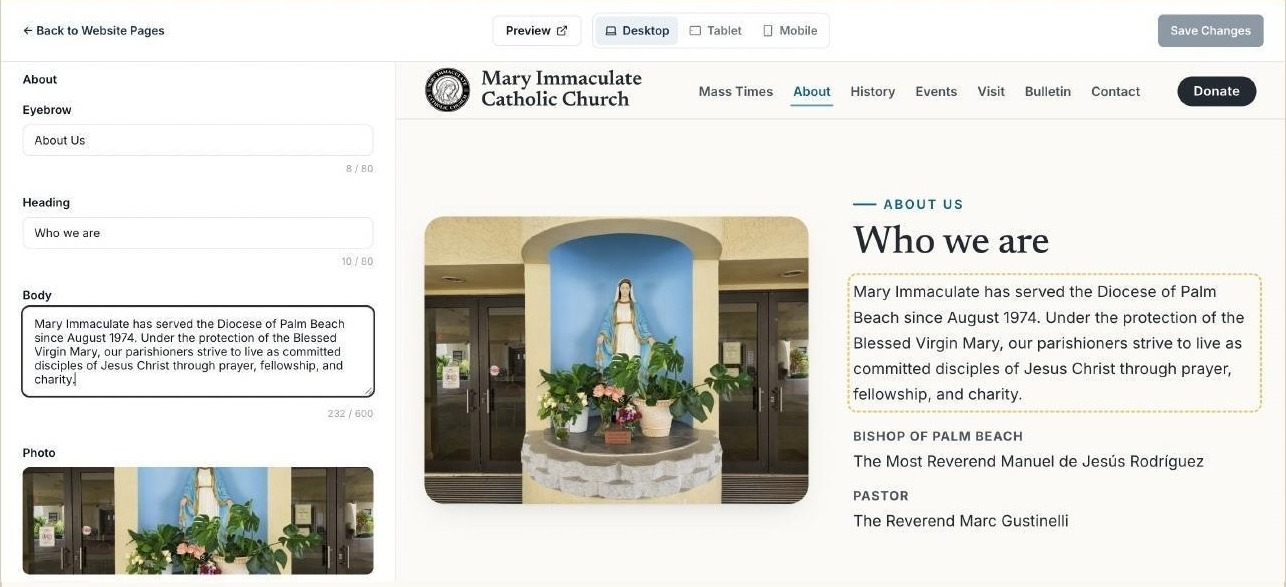
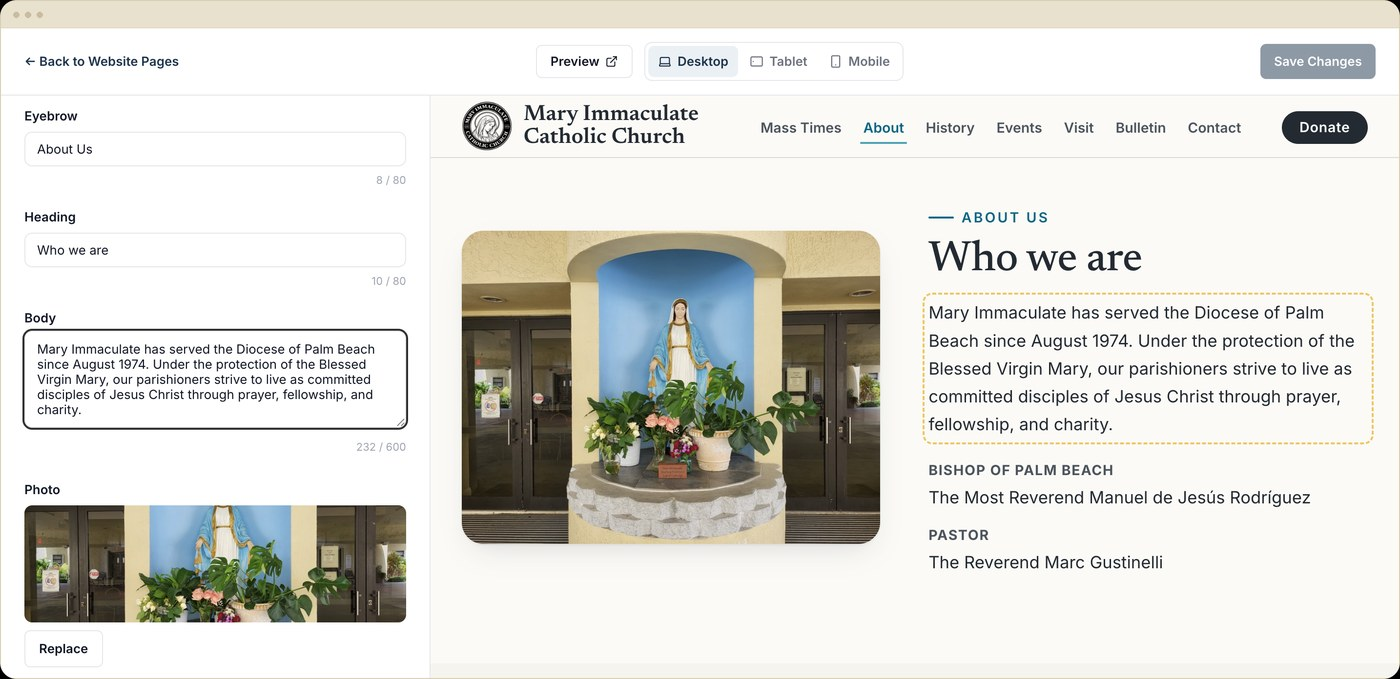
Replace mock screenshots with higher-quality versions, drop callout box
Swap login/dashboard/editor/bulletin screenshots for cleaner, higher-
resolution mockup-framed versions. Also fold the donation-fee detail
in "The Challenge" out of its own highlighted callout box into a
regular paragraph, since it didn't need to stand out separately.

diff --git a/05-lex-ai-frontend/code/case-studies/mary-immaculate.html b/05-lex-ai-frontend/code/case-studies/mary-immaculate.html
@@ -416,9 +416,7 @@ footer p{font-size:0.8rem;color:rgba(255,255,255,0.25)}
             <h3>The Challenge</h3>
             <p>Mary Immaculate's old site at miwpb.online was hand-built years earlier and never really changed after that, because changing it meant editing raw HTML. A new Mass time, a fresh photo, an updated staff bio: all of it meant calling a developer and waiting.</p>
             <p>The weekly bulletin lived on a shared Google Drive folder the office had to remember to re-share every week. Registration forms lived on a separate Google Form. None of these systems talked to each other, and there was no single place to see who had signed up for anything.</p>
-            <div class="challenge-box">
-              <p>On top of that, the parish was routing online donations through a processor charging <strong>2.9% + $0.45</strong> per card transaction and <strong>1% + $0.45</strong> per ACH transfer — a real, recurring cost for a parish in need of funds.</p>
-            </div>
+            <p>On top of that, the parish was routing online donations through a processor charging <strong>2.9% + $0.45</strong> per card transaction and <strong>1% + $0.45</strong> per ACH transfer — a real, recurring cost for a parish in need of funds.</p>
           </div>
 
           <div class="cs-section bg-light">
